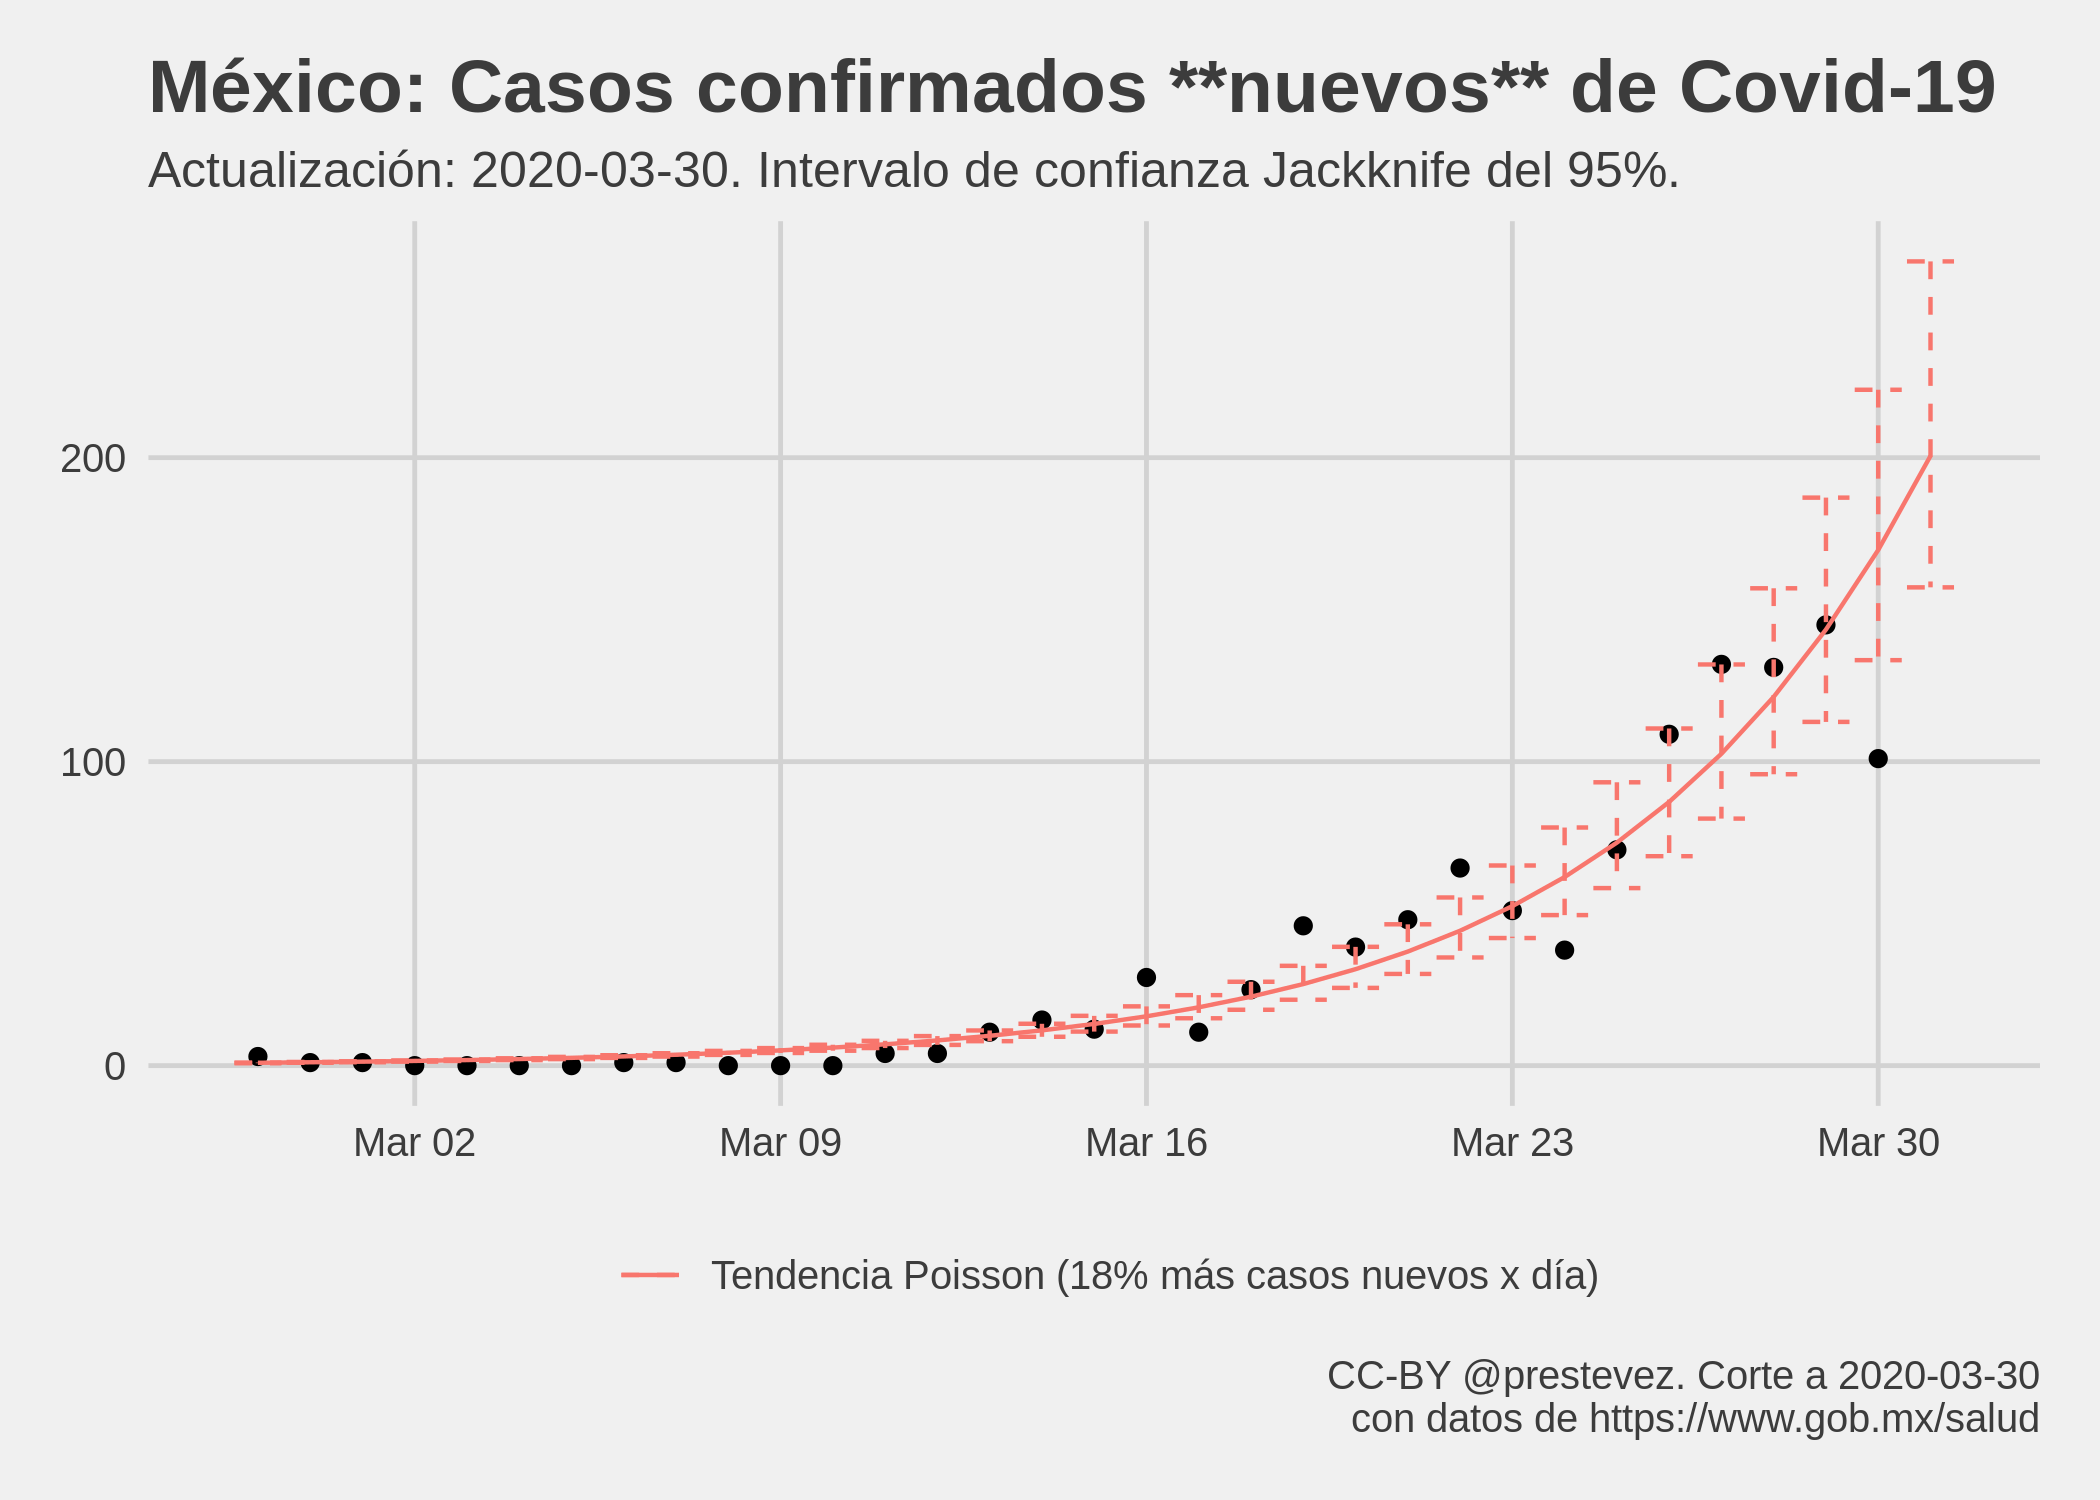
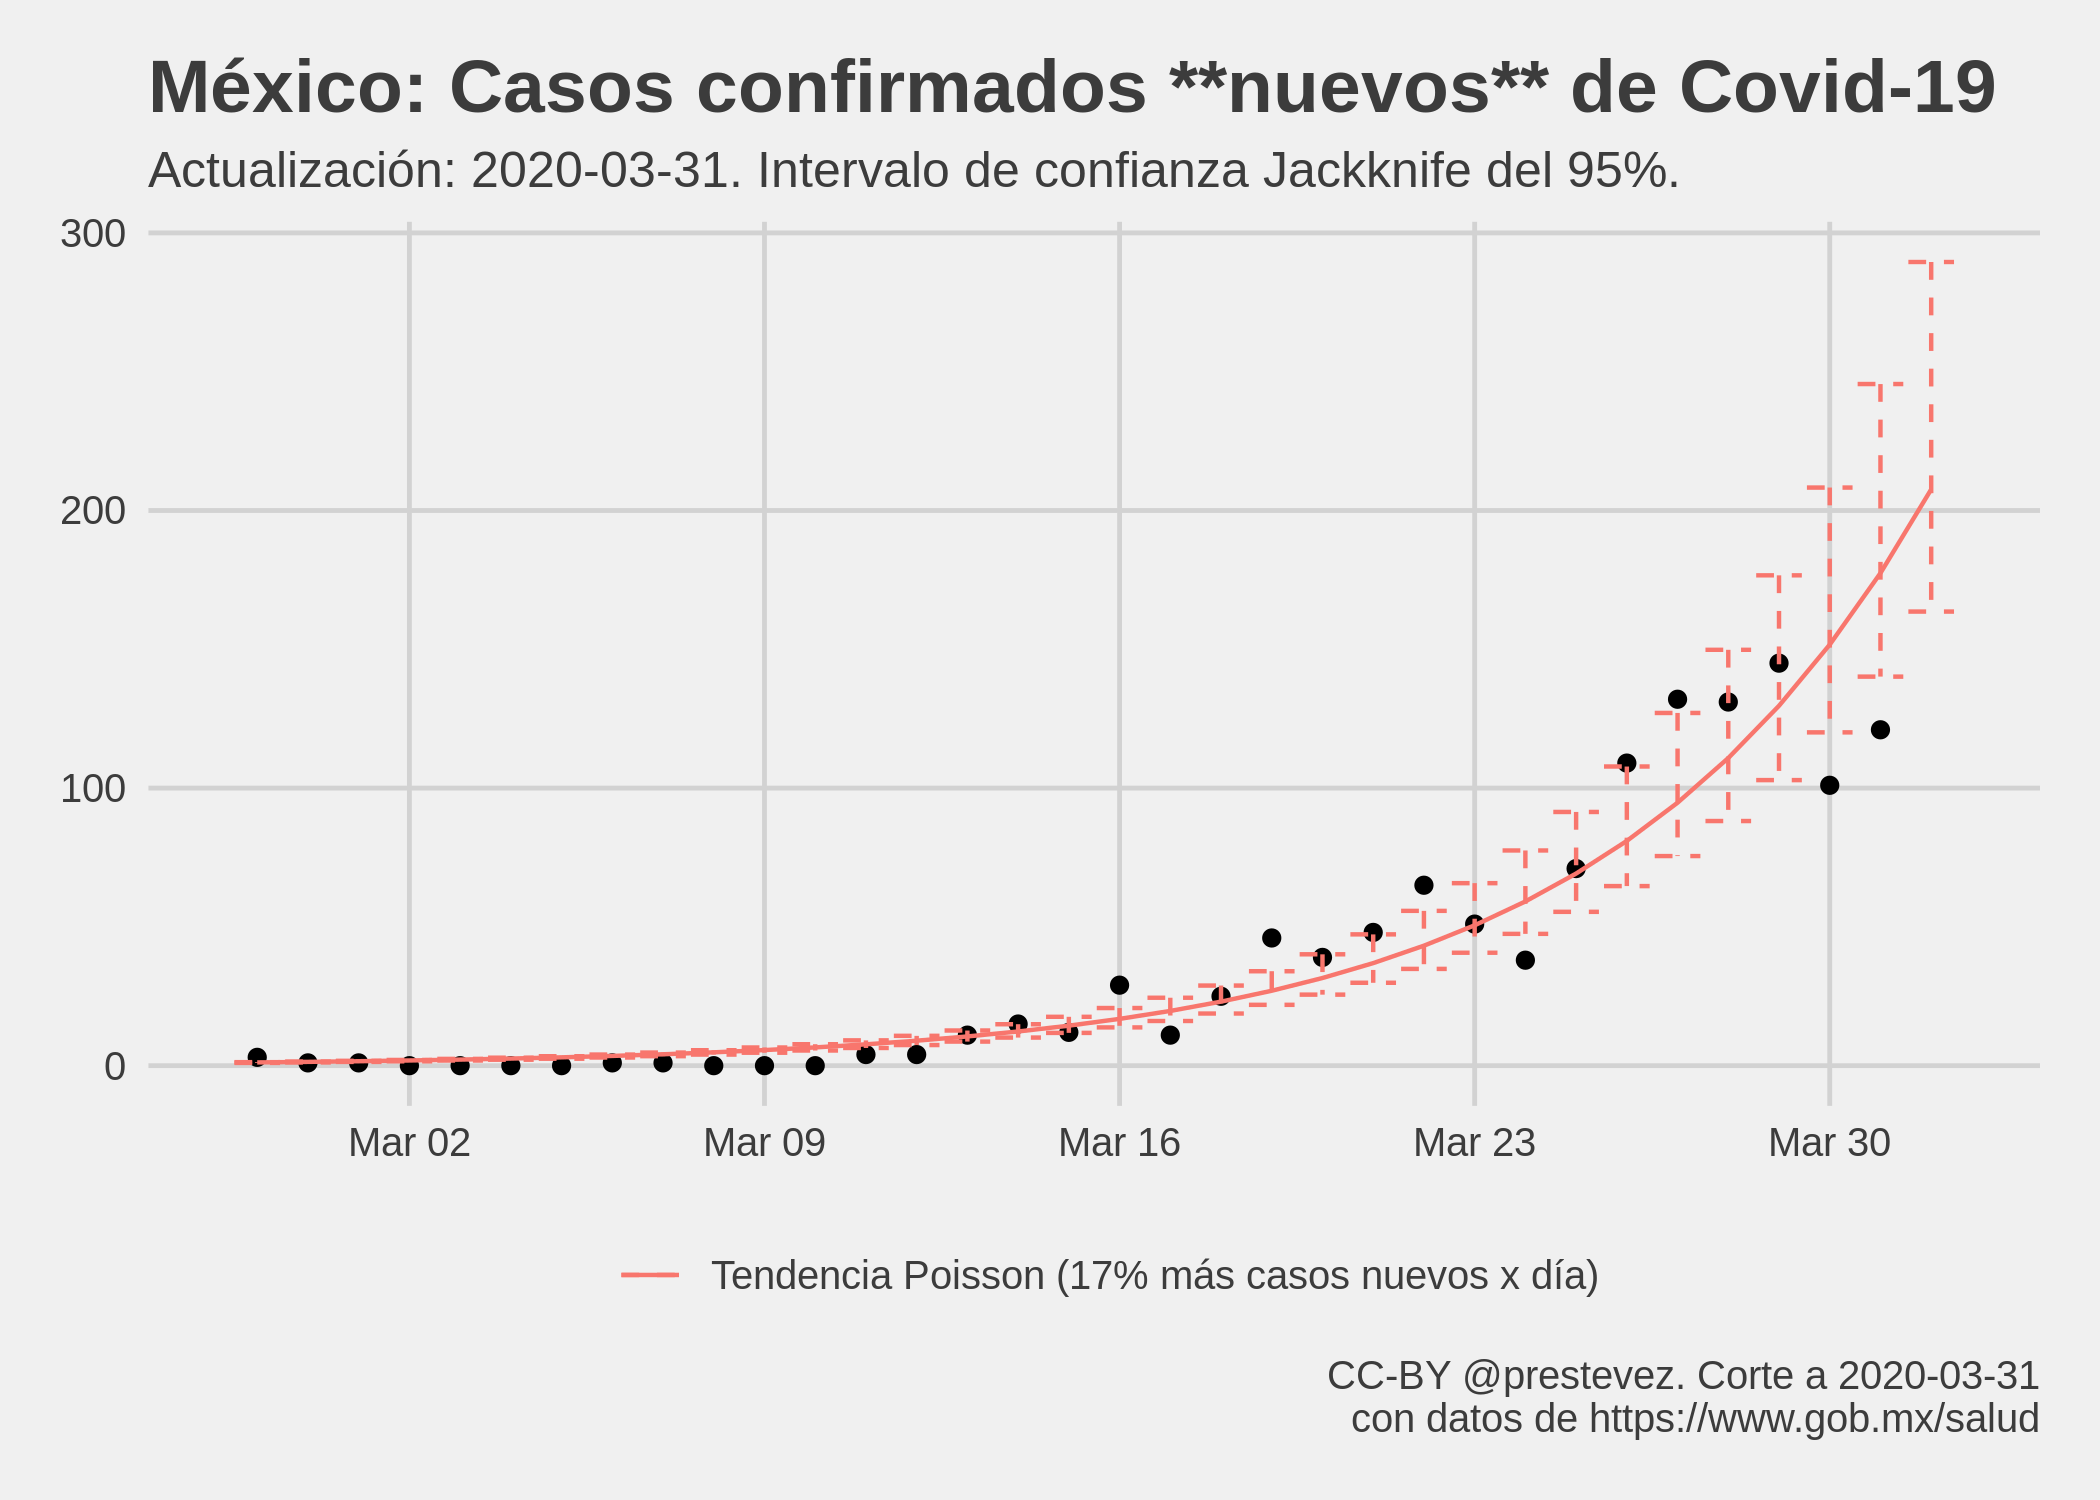
update 2020-03-31

diff --git a/README.md b/README.md
@@ -1,7 +1,7 @@
 Evolución de Covid-19 en México
 ================
 [Patricio R Estevez-Soto](https://twitter.com/prestevez).
-Actualizado: 2020-03-31 06:52:50 GMT
+Actualizado: 2020-04-01 09:48:10 GMT
 
 # Crecimiento de casos confirmados de Covid-19 en México
 
@@ -38,20 +38,20 @@ Parámetros del modelo predictivo:
     ## 
     ## Deviance Residuals: 
     ##     Min       1Q   Median       3Q      Max  
-    ## -64.552  -23.462   -6.305    1.456   32.849  
+    ## -86.765  -32.188   -9.676   -3.395   59.228  
     ## 
     ## Coefficients:
     ##             Estimate Std. Error t value Pr(>|t|)    
-    ## (Intercept) 1.436280   0.118357   12.13 4.22e-13 ***
-    ## t           0.175583   0.003977   44.15  < 2e-16 ***
+    ## (Intercept) 1.689447   0.133170   12.69 8.23e-14 ***
+    ## t           0.166122   0.004351   38.18  < 2e-16 ***
     ## ---
     ## Signif. codes:  0 '***' 0.001 '**' 0.01 '*' 0.05 '.' 0.1 ' ' 1
     ## 
-    ## (Dispersion parameter for gaussian family taken to be 574.5023)
+    ## (Dispersion parameter for gaussian family taken to be 1016.315)
     ## 
-    ##     Null deviance: 3051566  on 31  degrees of freedom
-    ## Residual deviance:   17235  on 30  degrees of freedom
-    ## AIC: 298.06
+    ##     Null deviance: 4018598  on 32  degrees of freedom
+    ## Residual deviance:   31505  on 31  degrees of freedom
+    ## AIC: 326.08
     ## 
     ## Number of Fisher Scoring iterations: 6
 
@@ -88,8 +88,8 @@ Parámetros Jackknife del modelo predictivo de casos:
     ## # A tibble: 2 x 4
     ##   var         Estimate ci_low ci_high
     ##   <chr>          <dbl>  <dbl>   <dbl>
-    ## 1 (Intercept)    1.43   1.35    1.46 
-    ## 2 t              0.176  0.175   0.179
+    ## 1 (Intercept)    1.69   1.61    1.72 
+    ## 2 t              0.166  0.165   0.169
 
 # Modelo de casos nuevos
 
@@ -122,39 +122,39 @@ Parámetros del modelo predictivo de casos nuevos:
     ## 
     ## Deviance Residuals: 
     ##     Min       1Q   Median       3Q      Max  
-    ## -5.7031  -1.9459  -0.2817   1.0256   3.3542  
+    ## -4.4986  -2.1451  -0.5113   1.3226   3.6123  
     ## 
     ## Coefficients:
-    ##             Estimate Std. Error z value Pr(>|z|)    
-    ## (Intercept) -0.23043    0.14872  -1.549    0.121    
-    ## t            0.16763    0.00546  30.703   <2e-16 ***
+    ##              Estimate Std. Error z value Pr(>|z|)    
+    ## (Intercept) 0.0004218  0.1367402   0.003    0.998    
+    ## t           0.1569170  0.0048971  32.043   <2e-16 ***
     ## ---
     ## Signif. codes:  0 '***' 0.001 '**' 0.01 '*' 0.05 '.' 0.1 ' ' 1
     ## 
     ## (Dispersion parameter for poisson family taken to be 1)
     ## 
-    ##     Null deviance: 1703.38  on 31  degrees of freedom
-    ## Residual deviance:  153.23  on 30  degrees of freedom
-    ## AIC: 275.92
+    ##     Null deviance: 1829.11  on 32  degrees of freedom
+    ## Residual deviance:  180.46  on 31  degrees of freedom
+    ## AIC: 309.79
     ## 
     ## Number of Fisher Scoring iterations: 5
 
     ## # A tibble: 2 x 4
     ##   var         Estimate ci_low ci_high
     ##   <chr>          <dbl>  <dbl>   <dbl>
-    ## 1 (Intercept)   -0.234 -0.392  -0.160
-    ## 2 t              0.168  0.165   0.174
+    ## 1 (Intercept) -0.00247 -0.160  0.0681
+    ## 2 t            0.157    0.155  0.165
 
 # Casos esperados mañana
 
 Mañana se espera que el **total acumulado de casos confirmados** de
-Covid-19 alcance **1381**, con un intervalo de confianza Jackknife del
-95% entre **1230** y **1571**, si la tendencia observada hasta hoy se
+Covid-19 alcance **1537**, con un intervalo de confianza Jackknife del
+95% entre **1383** y **1724**, si la tendencia observada hasta hoy se
 mantiene igual.
 
-Según el modelo de casos nuevos, mañana se esperan **201 casos
+Según el modelo de casos nuevos, mañana se esperan **208 casos
 confirmados nuevos**, con un intervalo de confianza Jackknife del 95%
-entre **157** y **265**, si la tendencia observada hasta hoy se mantiene
+entre **164** y **290**, si la tendencia observada hasta hoy se mantiene
 igual.
 
 Sin embargo, estas cifra muy probablemente estén equivocadas, pues el
@@ -188,6 +188,7 @@ Para el modelo del acumulado de casos:
 | 2020-03-28 |                      848 |     876.82 |  \-28.82 |
 | 2020-03-29 |                      993 |    1041.24 |  \-48.24 |
 | 2020-03-30 |                     1094 |    1222.78 | \-128.78 |
+| 2020-03-31 |                     1215 |    1380.92 | \-165.92 |
 
 Intervalos de confianza JK
 
@@ -200,6 +201,7 @@ Intervalos de confianza JK
 | 2020-03-28 |           848            |    792-968     |       No       |
 | 2020-03-29 |           993            |    936-1166    |       No       |
 | 2020-03-30 |           1094           |   1106-1363    |       Sí       |
+| 2020-03-31 |           1215           |   1230-1571    |       Sí       |
 
 Para el modelo de casos nuevos:
 
@@ -214,6 +216,7 @@ Para el modelo de casos nuevos:
 | 2020-03-28 |                     131 |     154.15 | \-23.15 |
 | 2020-03-29 |                     145 |     176.99 | \-31.99 |
 | 2020-03-30 |                     101 |     200.17 | \-99.17 |
+| 2020-03-31 |                     121 |     200.59 | \-79.59 |
 
 Intervalos de confianza JK, casos nuevos.
 
@@ -226,6 +229,7 @@ Intervalos de confianza JK, casos nuevos.
 | 2020-03-28 |           131           |    121-194     |       No       |
 | 2020-03-29 |           145           |    141-225     |       No       |
 | 2020-03-30 |           101           |    162-252     |       Sí       |
+| 2020-03-31 |           121           |    157-265     |       Sí       |
 
 # Discusión
 
@@ -234,7 +238,7 @@ confirmados de Covid-19 es consistente con ejercicios [realizados en
 otros países](https://doi.org/10.1016/S0140-6736\(20\)30627-9).
 
 La tendencia exponencial del modelo sugiere que **el número de casos
-confirmados se duplica cada 3.95 días**. Este ritmo es más rápido que
+confirmados se duplica cada 4.17 días**. Este ritmo es más rápido que
 [el observado a nivel
 global](https://ourworldindata.org/coronavirus#growth-of-cases-how-long-did-it-take-for-the-number-of-confirmed-cases-to-double),
 pero es consistente con los ritmos de crecimiento observados durante las
